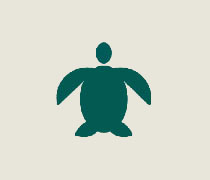
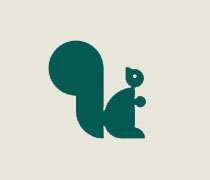
Sunday morning - replaced squirrel image, etc.

Changed region(s): [[0.2286, 0.2222, 0.7429, 0.7778]]

diff --git a/src/Ajax.js b/src/Ajax.js
@@ -2,40 +2,55 @@
 
 import axios from 'axios';
 
-/*
-
-axios.post('/user', {
-    firstName: 'Fred',
-    lastName: 'Flintstone'
-  })
-  .then(function (response) {
-    console.log(response);
-  })
-  .catch(function (error) {
-    console.log(error);
-  });
-
-*/
-
-
-// http://localhost/2019/LOLLYPOP/servers/server-5/
+//const url = "http://localhost/2019/LOLLYPOP/servers/server-6/";   // must include final "/""
+const url = "http://andyknoll.com/lollypop/servers/server-6/";
 
 export const getFakeCustomers = () => {
-    alert("making getFakeCustomers AJAX call");
-    let url = "http://localhost/2019/LOLLYPOP/servers/server-5/";
-    axios.post(url, {
+    let req = {
         "rpc": "getTestCustomers",
-        "params": {"count":10},
+        "params": {"count":1},
         "objects": []
-    })
-      .then(function (response) {
-        console.log(response);
-        alert("RESPONSE OK: " + response);
-      })
-      .catch(function (error) {
-        console.log(error);
-        alert("ERROR: " + error);
-      });
-        
+    };
+    let reqJson = JSON.stringify(req);
+    let headers = {
+        'Accept': 'application/json',
+        'Content-Type': 'application/json',
+        'Access-Control-Allow-Origin': '*'
+    };
+
+
+    axios.post(url, reqJson, headers)
+        .then(data => {
+            console.log("AXIOS RESPONSE OK: \n");
+            //console.log(data);
+            console.log(data.data);
+        })
+        .catch(error => {
+            console.log("AXIOS ERROR: \n");
+            console.log(error);
+        });
+
+    /*
+    fetch(url, {
+            method: 'POST',
+            headers: { 
+                'Accept': 'application/json',
+                'Content-Type': 'application/json',
+                'Access-Control-Allow-Origin': '*'
+            },
+            //credentials: 'include',
+            body: JSON.stringify(req)
+        })
+        // We get the API response and receive data in JSON format...
+        .then(response => response.json())
+        .then(data =>
+            alert("FETCH RESPONSE OK: \n" + data)
+        )
+        // Catch any errors we hit and update the app
+        .catch(error => 
+            alert("FETCH ERROR: \n" + error)
+        );
+    */  
+
 }
 

diff --git a/src/Screens.js b/src/Screens.js
@@ -88,10 +88,8 @@ export const Screen4 = (props) => {
       <ParaPoses>    
         <h2>An Admissions staff member will be with you<br/> shortly to help you with your {petName}.</h2>
       </ParaPoses>
-      <LogoPoses class="logo"></LogoPoses>
+      <LogoPoses className="logo"></LogoPoses>
     </ScreenPoses>
   );
 }
 
-
-export const Screens = [ Screen0, Screen1, Screen2, Screen3, Screen4 ];

diff --git a/src/App.js b/src/App.js
@@ -28,7 +28,7 @@
 
 import React from 'react';
 import { ScreenViewer, StateViewer } from './ScreenViewer';
-import { NO_SCREEN, HELLO_SCREEN, NAME_SCREEN, PET_SCREEN, CONF_SCREEN } from './Screens'
+import { NO_SCREEN, HELLO_SCREEN, CONF_SCREEN } from './Screens'
 import { PetNames, PET_NONE } from './Pets'
 import { getFakeCustomers } from  './Ajax'
 

diff --git a/src/ScreenViewer.js b/src/ScreenViewer.js
@@ -2,7 +2,7 @@
 
 import React from 'react';
 
-import { Screen0, Screen1, Screen2, Screen3, Screen4, Screens } from './Screens';
+import { Screen0, Screen1, Screen2, Screen3, Screen4 } from './Screens';
 
 export const ScreenViewer = (props) => {
   return (
